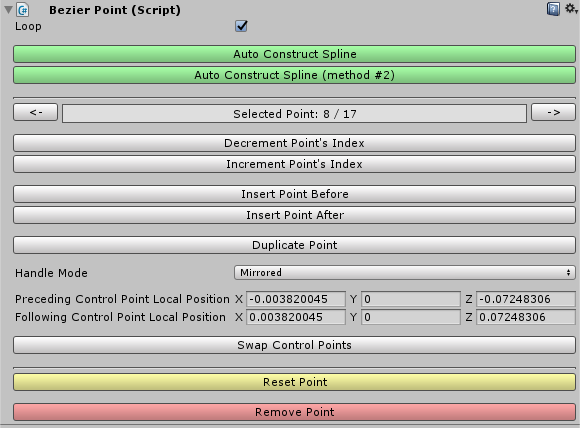
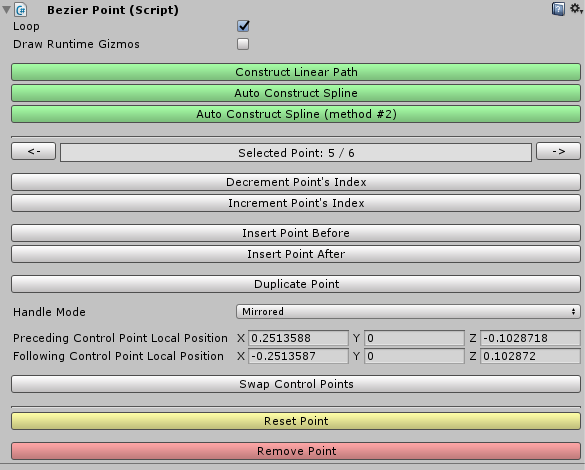
Added ConstructLinearPath() + exposed Draw Runtime Gizmos in Inspector

diff --git a/Assets/Plugins/BezierSolution/BezierSpline.cs b/Assets/Plugins/BezierSolution/BezierSpline.cs
@@ -7,14 +7,14 @@ namespace BezierSolution
 	public class BezierSpline : MonoBehaviour
 	{
 		private static Material gizmoMaterial;
-
-		private bool drawGizmos = false;
-		private Color gizmoColor;
-		private float gizmoStep;
+		
+		private Color gizmoColor = Color.white;
+		private float gizmoStep = 0.05f;
 
 		private List<BezierPoint> endPoints = new List<BezierPoint>();
 		
 		public bool loop = false;
+		public bool drawGizmos = false;
 
 		public int Count { get { return endPoints.Count; } }
 		public float Length { get { return GetLengthApproximately( 0f, 1f ); } }
@@ -401,12 +401,35 @@ namespace BezierSolution
 			return GetPoint( normalizedT );
 		}
 
+		public void ConstructLinearPath()
+		{
+			for( int i = 0; i < endPoints.Count; i++ )
+			{
+				endPoints[i].handleMode = BezierPoint.HandleMode.Free;
+				
+				if( i < endPoints.Count - 1 )
+				{
+					Vector3 midPoint = ( endPoints[i].position + endPoints[i + 1].position ) * 0.5f;
+					endPoints[i].followingControlPointPosition = midPoint;
+					endPoints[i + 1].precedingControlPointPosition = midPoint;
+				}
+				else
+				{
+					Vector3 midPoint = ( endPoints[i].position + endPoints[0].position ) * 0.5f;
+					endPoints[i].followingControlPointPosition = midPoint;
+					endPoints[0].precedingControlPointPosition = midPoint;
+				}
+			}
+		}
+
 		public void AutoConstructSpline()
 		{
 			// Credit: http://www.codeproject.com/Articles/31859/Draw-a-Smooth-Curve-through-a-Set-of-2D-Points-wit
 
-			int n = endPoints.Count - 1;
+			for( int i = 0; i < endPoints.Count; i++ )
+				endPoints[i].handleMode = BezierPoint.HandleMode.Mirrored;
 
+			int n = endPoints.Count - 1;
 			if( n == 1 )
 			{
 				endPoints[0].followingControlPointPosition = ( 2 * endPoints[0].position + endPoints[1].position ) / 3f;
@@ -496,7 +519,7 @@ namespace BezierSolution
 		public void AutoConstructSpline2()
 		{
 			// Credit: http://stackoverflow.com/questions/3526940/how-to-create-a-cubic-bezier-curve-when-given-n-points-in-3d
-
+			
 			for( int i = 0; i < endPoints.Count; i++ )
 			{
 				Vector3 pMinus1, p1, p2;
@@ -538,6 +561,7 @@ namespace BezierSolution
 				}
 
 				endPoints[i].followingControlPointPosition = endPoints[i].position + ( p1 - pMinus1 ) / 6f;
+				endPoints[i].handleMode = BezierPoint.HandleMode.Mirrored;
 
 				if( i < endPoints.Count - 1 )
 					endPoints[i + 1].precedingControlPointPosition = p1 - ( p2 - endPoints[i].position ) / 6f;
@@ -565,14 +589,6 @@ namespace BezierSolution
 		{
 			if( !drawGizmos || endPoints.Count < 2 )
 				return;
-
-#if UNITY_EDITOR
-			if( !Application.isPlaying )
-			{
-				drawGizmos = false;
-				return;
-			}
-#endif
 
 			if( !gizmoMaterial )
 			{

diff --git a/Assets/Plugins/BezierSolution/Editor/ParticlesFollowBezierEditor.cs b/Assets/Plugins/BezierSolution/Editor/ParticlesFollowBezierEditor.cs
@@ -29,11 +29,19 @@ namespace BezierSolution
 				particlesReset--;
 				if( particlesReset == 0 )
 				{
-					ParticlesFollowBezier _target = (ParticlesFollowBezier) target;
-					ParticleSystem particleSystem = _target.GetComponent<ParticleSystem>();
-					if( _target.spline != null && particleSystem != null && _target.enabled )
-						particleSystem.Clear();
+					ResetParticles( ( (ParticlesFollowBezier) target ).GetComponentsInParent<ParticlesFollowBezier>() );
+					ResetParticles( ( (ParticlesFollowBezier) target ).GetComponentsInChildren<ParticlesFollowBezier>() );
 				}
+			}
+		}
+
+		private void ResetParticles( ParticlesFollowBezier[] targets )
+		{
+			foreach( ParticlesFollowBezier target in targets )
+			{
+				ParticleSystem particleSystem = target.GetComponent<ParticleSystem>();
+				if( target.spline != null && particleSystem != null && target.enabled )
+					particleSystem.Clear();
 			}
 		}
 	}

diff --git a/Assets/Plugins/BezierSolution/Editor/BezierUtils.cs b/Assets/Plugins/BezierSolution/Editor/BezierUtils.cs
@@ -101,9 +101,28 @@ namespace BezierSolution
 				SceneView.RepaintAll();
 			}
 
+			EditorGUI.BeginChangeCheck();
+			bool drawGizmos = EditorGUILayout.Toggle( "Draw Runtime Gizmos", spline.drawGizmos );
+			if( EditorGUI.EndChangeCheck() )
+			{
+				Undo.RecordObject( spline, "Toggle Draw Gizmos" );
+				spline.drawGizmos = drawGizmos;
+
+				SceneView.RepaintAll();
+			}
+
 			EditorGUILayout.Space();
 
 			GUI.color = AUTO_CONSTRUCT_SPLINE_BUTTON_COLOR;
+
+			if( GUILayout.Button( "Construct Linear Path" ) )
+			{
+				for( int i = 0; i < spline.Count; i++ )
+					Undo.RecordObject( spline[i], "Construct Linear Path" );
+
+				spline.ConstructLinearPath();
+				SceneView.RepaintAll();
+			}
 
 			if( GUILayout.Button( "Auto Construct Spline" ) )
 			{

diff --git a/Assets/Plugins/BezierSolution/BezierPoint.cs b/Assets/Plugins/BezierSolution/BezierPoint.cs
@@ -58,6 +58,7 @@ namespace BezierSolution
 		}
 
 		[SerializeField]
+		[HideInInspector]
 		private Vector3 m_precedingControlPointLocalPosition = Vector3.left;
 		public Vector3 precedingControlPointLocalPosition
 		{
@@ -121,6 +122,7 @@ namespace BezierSolution
 		}
 
 		[SerializeField]
+		[HideInInspector]
 		private Vector3 m_followingControlPointLocalPosition = Vector3.right;
 		public Vector3 followingControlPointLocalPosition
 		{

diff --git a/README.md b/README.md
@@ -30,7 +30,11 @@ The user interface for the spline editor should be pretty self-explanatory. Howe
 
 **Loop**: connects the first end point and the last end point of the spline
 
+**Draw Runtime Gizmos**: draws the spline during gameplay. Can be tweaked and customized using *DrawGizmos*/*HideGizmos* functions (see *UTILITY FUNCTIONS*)
+
 **Handle Mode**: control points of end points are handled in one of 3 ways: Free mode allows moving control points independently, Mirrored mode places the control points opposite to each other and Aligned mode ensures that both control points are aligned on a line that passes through the end point (unlike Mirrored mode, their distance to end point may differ)
+
+**Construct Linear Path**: constructs a completely linear path between the end points by using *Free* handle mode and adjusting the control points of end points (see *Convert spline to a linear path* section below)
 
 **Auto Construct Spline**: auto adjusts the control points of end points to form a smooth spline that goes through the end points you set. There are 2 different implementations for it, with each giving a slightly different output (see *Auto construct the spline* section below)
 
@@ -82,9 +86,15 @@ spline[0].followingControlPointPosition = spline[1].position;
 
 - **Auto construct the spline**
 
-If you don't want to position all the control points manually, but rather generate a nice-looking "continuous" spline that goes through the end points you have created, you can call either AutoConstructSpline() or AutoConstructSpline2(). These methods are implementations of some algorithms found on the internet (and credited in the source code). There is a third algorithm (*AutoConstructSpline3()*) which is not implemented, but feel free to implement it yourself!
+If you don't want to position all the control points manually, but rather generate a nice-looking "continuous" spline that goes through the end points you have created, you can call either **AutoConstructSpline()** or **AutoConstructSpline2()**. These methods are implementations of some algorithms found on the internet (and credited in the source code). There is a third algorithm (*AutoConstructSpline3()*) which is not implemented, but feel free to implement it yourself!
 
 ![auto-construct](Images/4.png)
+
+- **Convert spline to a linear path**
+
+If you want to create a linear path between the end points of the spline, you can call the **ConstructLinearPath()** function.
+
+![auto-construct](Images/4_2.png)
 
 ### UTILITY FUNCTIONS
 
